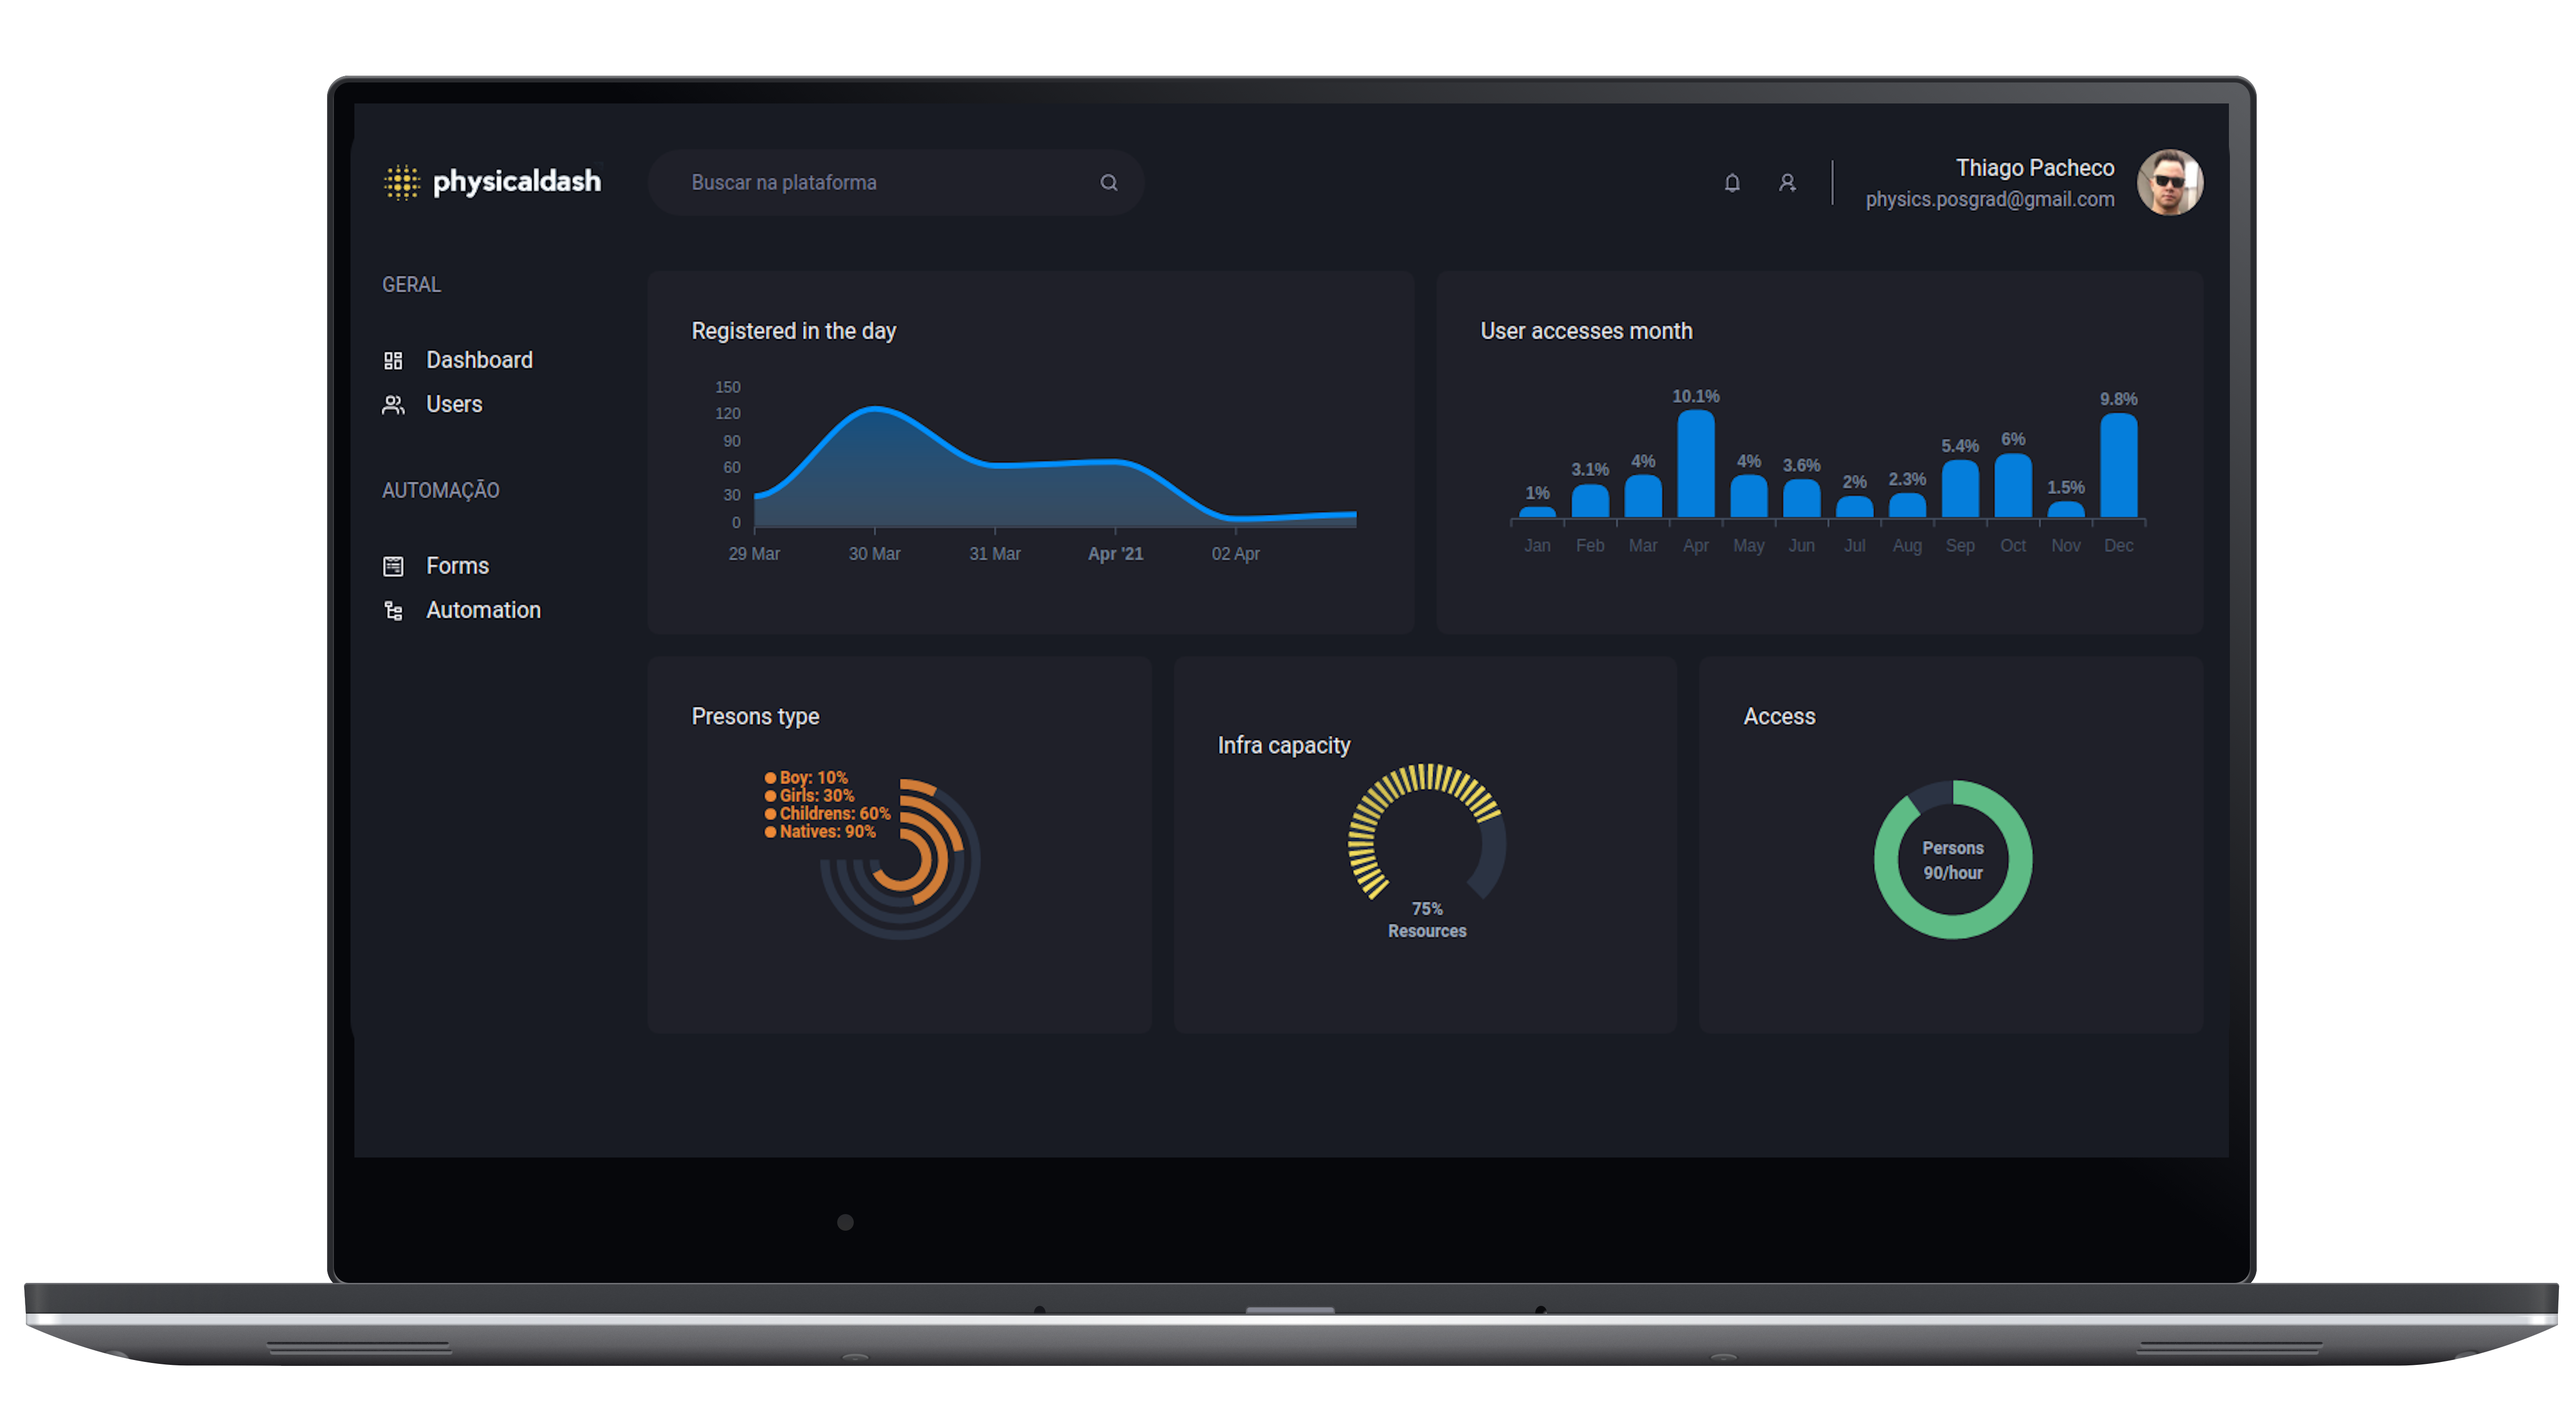
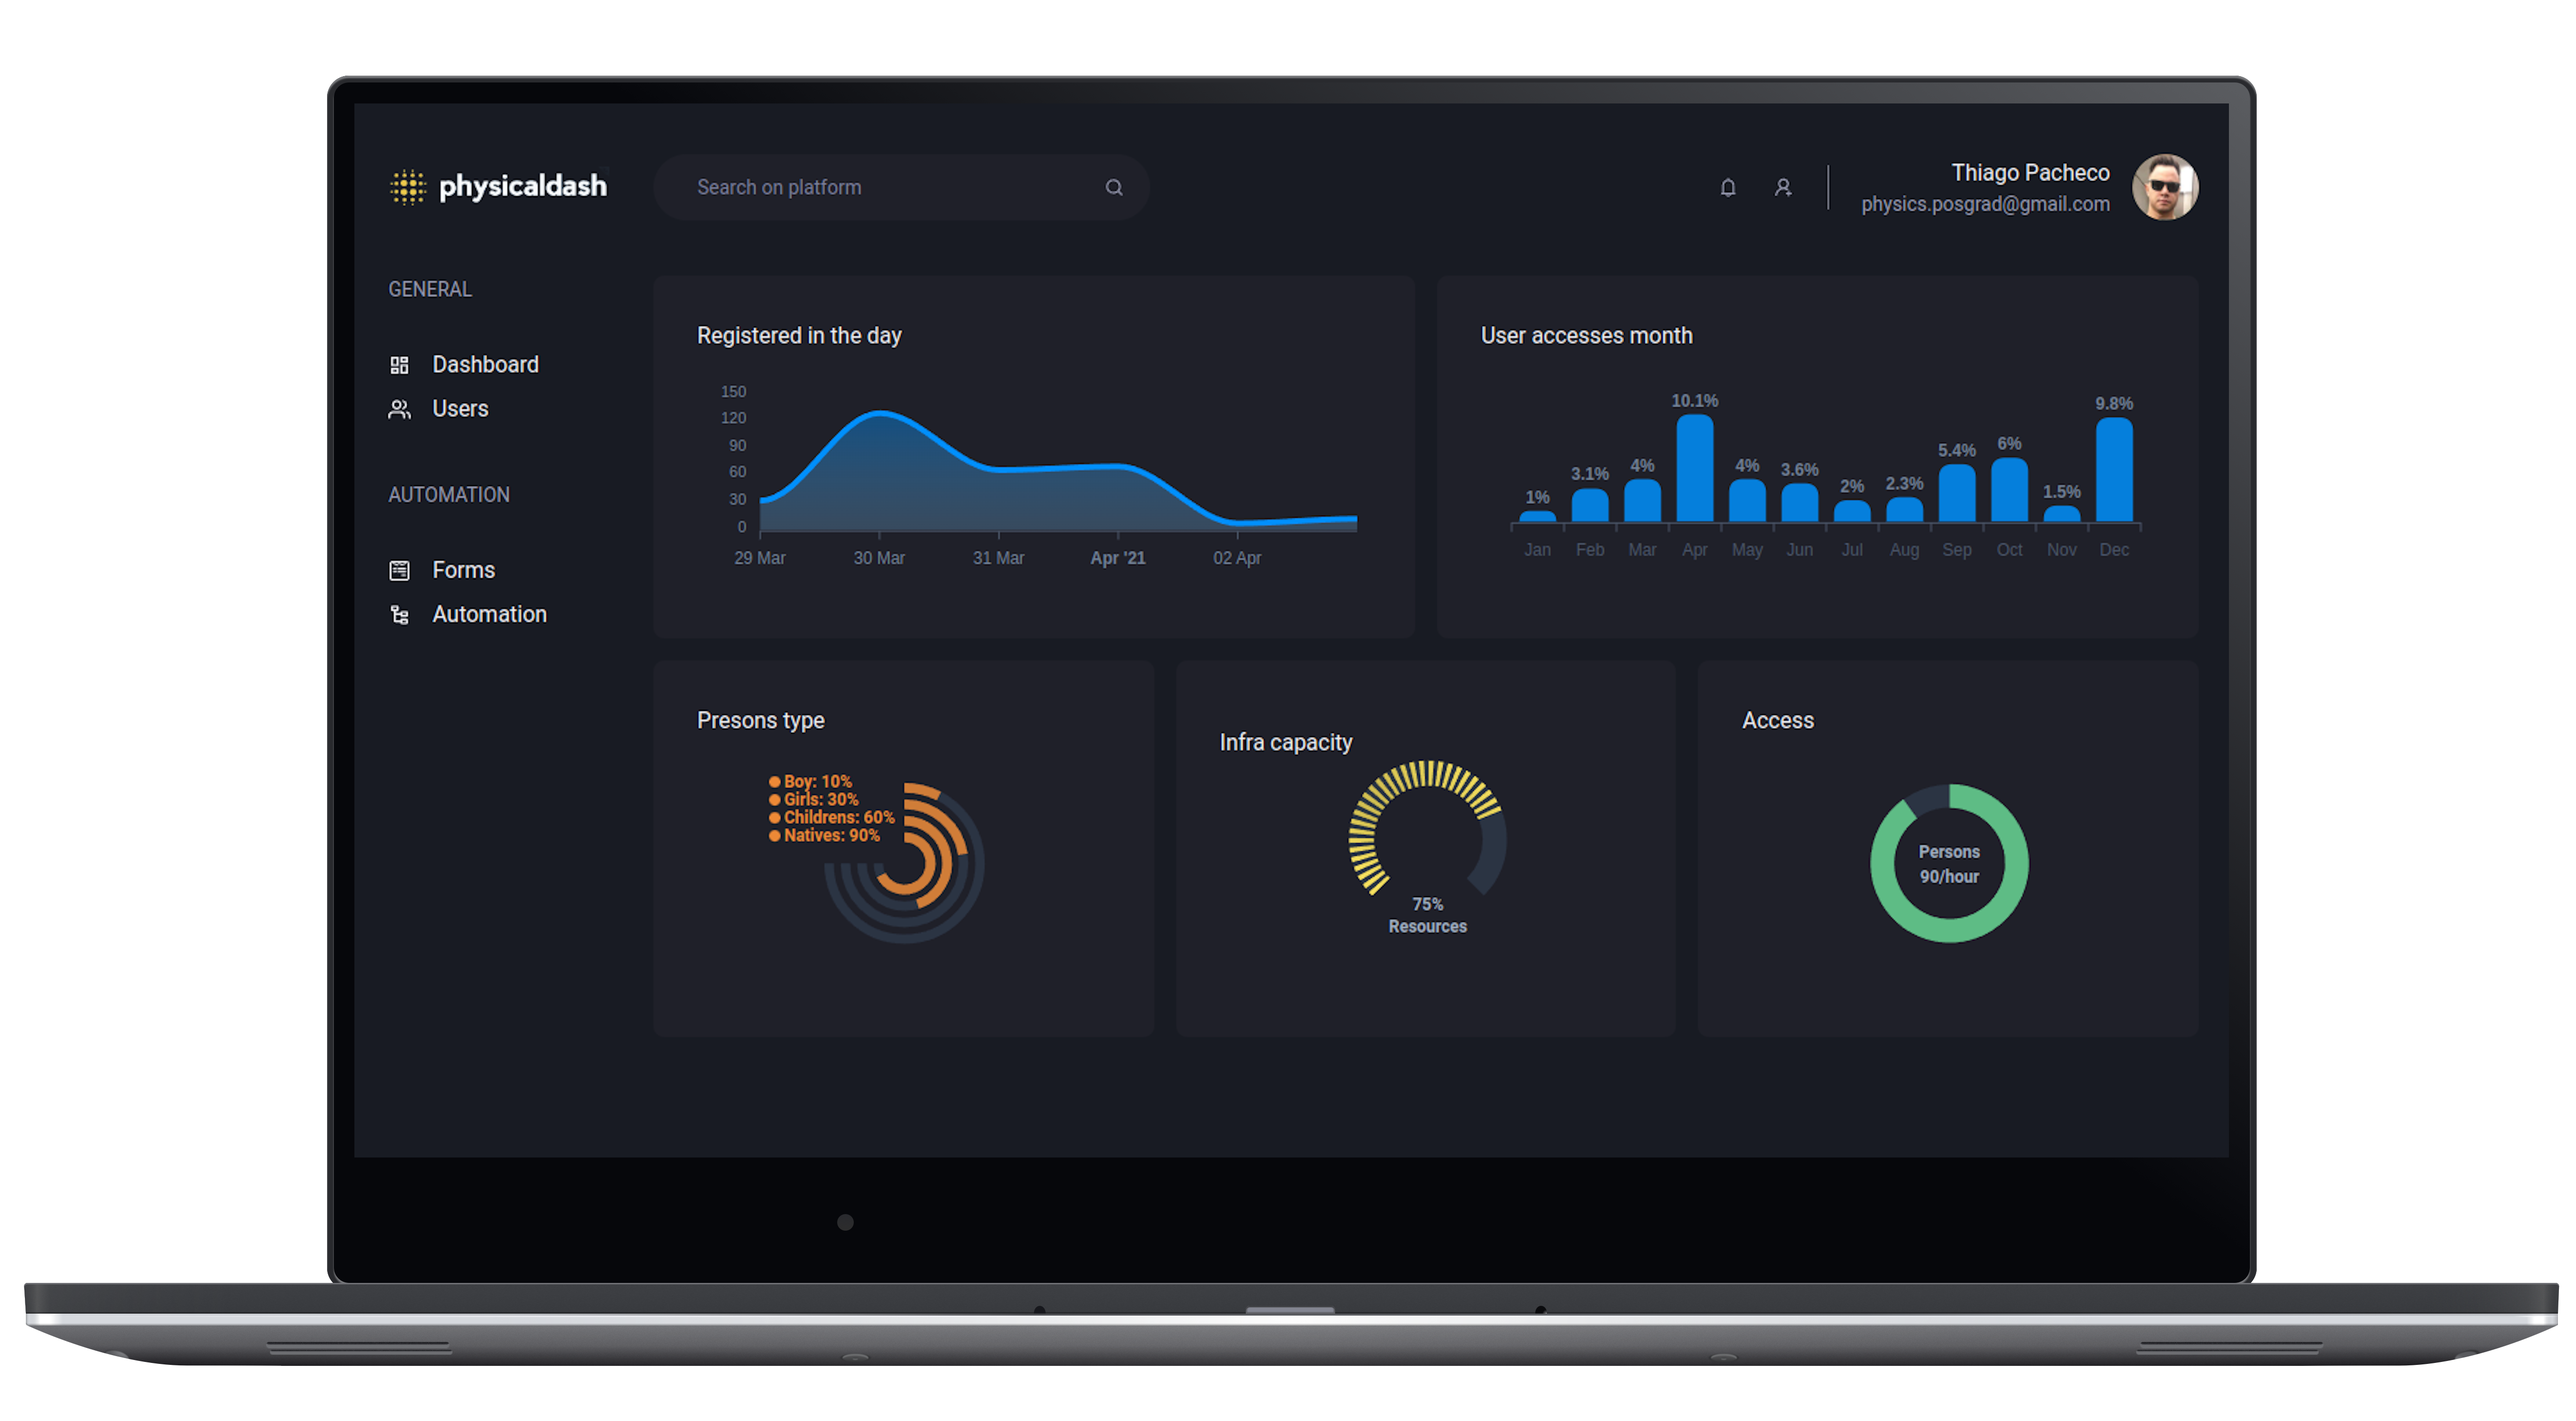
criação da página de criação de usuários, form

diff --git a/src/pages/users/index.tsx b/src/pages/users/index.tsx
@@ -10,17 +10,17 @@ const users = [
     {
         name: "Thiago Pacheco",
         email: "thiago.p@gmail.com",
-        createdAs: "22 de abril de 2022"
+        createdAs: "Apr-22, 2022"
     },
     {
         name: "Cibele Fáula",
         email: "cibele.f@gmail.com",
-        createdAs: "01 de fevereiro de 2021",
+        createdAs: "Feb-02, 2022",
     },
     {
         name: "Carlos H",
         email: "krloss.H@gmail.com",
-        createdAs: "02 de dezembro de 2021",
+        createdAs: "Dec-25, 2021",
     }
 ]
 
@@ -32,17 +32,17 @@ export default function Users() {
                 <SideBar />
                 <Box flex="1" borderRadius={8} p={8} bg="gray.800">
                     <Flex mb={8} align="center" justify="space-between">
-                        <Heading size="lg" fontWeight="normal" >Usuários</Heading>
-                        <Button as="a" size="sm" color="black" leftIcon={<Icon as={RiAddLine} fontSize={20} />}>Criar novo</Button>
+                        <Heading size="lg" fontWeight="normal" >Users</Heading>
+                        <Button as="a" size="sm" color="black" leftIcon={<Icon as={RiAddLine} fontSize={20} />}>Create new</Button>
                     </Flex>
                     <Table colorScheme="whiteAlpha">
-                        <Thead>
+                        <Thead >
                             <Tr>
                                 <Th px="6" w="8">
                                     <Checkbox colorScheme="yellow" />
                                 </Th>
-                                <Th>Usuário</Th>
-                                <Th>Data de cadastro</Th>
+                                <Th>User</Th>
+                                <Th>Registration date</Th>
                                 <Th w={8}></Th>
                             </Tr>
                         </Thead>

diff --git a/src/pages/forms.tsx b/src/pages/forms.tsx
@@ -1,0 +1,33 @@
+import { Flex, VStack, SimpleGrid, HStack, Button, Heading } from '@chakra-ui/react'
+import TpaInput from '../components/forms/TpInput'
+import Header from '../components/header/Header'
+import SideBar from '../components/sidebar/SideBar'
+
+export default function Forms() {
+    return (
+        <Flex h="100vh" direction='column'>
+            <Header />
+            <Flex w="100%" my="6" mx="auto" maxWidth="1480" px="6">
+                <SideBar />
+                <VStack p={8} align="left" w="100%" spacing={8} ml="1" bg="gray.800">
+                    <Heading size="lg" fontWeight="normal" >Create user</Heading>
+                    <SimpleGrid width="100%" gap={8} minChildWidth="240px" alignItems="flex-start">
+
+                        <TpaInput iconType='user' placeholder='Type your name' />
+                        <TpaInput iconType='email' placeholder='Type your e-mail' />
+
+                    </SimpleGrid>
+                    <SimpleGrid width="100%" gap={8} minChildWidth="240px" alignItems="flex-start">
+
+                        <TpaInput iconType='lock' placeholder='Enter your password' isPassword />
+                        <TpaInput iconType='lock' placeholder='Confirm your password' isPassword />
+                    </SimpleGrid>
+                    <HStack spacing={4} justifyContent="flex-end">
+                        <Button size="sm" w={20} colorScheme="gray" color="gray.700">Cancel</Button>
+                        <Button size="sm" w={20}>Save</Button>
+                    </HStack>
+                </VStack>
+            </Flex>
+        </Flex >
+    )
+}

diff --git a/src/pages/users/UserTableLine.tsx b/src/pages/users/UserTableLine.tsx
@@ -1,5 +1,5 @@
 import { Tbody, Tr, Td, Checkbox, Box, Text, Button, Icon } from '@chakra-ui/react'
-import { RiAddLine, RiPencilLine } from 'react-icons/ri'
+import { RiPencilLine } from 'react-icons/ri'
 
 
 interface UserTableLineBrops {
@@ -25,7 +25,7 @@ export default function UserTableLine({ name, email, createdAs }: UserTableLineB
                     <Text fontSize="sm">{createdAs}</Text>
                 </Td>
                 <Td>
-                    <Button as="a" size="sm" colorScheme="gray" color="gray.800" leftIcon={<Icon fontSize="16" as={RiPencilLine} />}>Editar</Button>
+                    <Button as="a" size="sm" colorScheme="gray" color="gray.700" leftIcon={<Icon fontSize="16" as={RiPencilLine} />}>Edit</Button>
                 </Td>
             </Tr>
         </Tbody>

diff --git a/src/components/sidebar/SideBar.tsx b/src/components/sidebar/SideBar.tsx
@@ -12,7 +12,7 @@ export default function SideBar() {
     return (
         <>
             <VStack as="aside" spacing={10} alignItems="flex-start" w="220px"  >
-                <SideBarCategoryMenu menuTitle='Geral' itens={
+                <SideBarCategoryMenu menuTitle='General' itens={
                     [
                         {
                             name: "Dashboard",
@@ -25,7 +25,7 @@ export default function SideBar() {
                         }
                     ]
                 } />
-                <SideBarCategoryMenu menuTitle='Automação' itens={
+                <SideBarCategoryMenu menuTitle='Automation' itens={
                     [
                         {
                             name: "Forms",

diff --git a/src/components/forms/RounderInput.tsx b/src/components/forms/RounderInput.tsx
@@ -3,10 +3,10 @@ import { Icon, Input, InputGroup, InputProps, InputRightElement } from '@chakra-
 import React from 'react'
 import { RiSearchLine } from 'react-icons/ri'
 
-export default function RounderInput({ ml, size, ...props }: InputProps) {
+export default function RounderInput({ ml, size, placeholder, ...props }: InputProps) {
     return (
         <InputGroup maxW={360} ml={ml} size={size}>
-            <Input {...props} size={size} variant="searchBox" placeholder='Buscar na plataforma' />
+            <Input {...props} size={size} variant="searchBox" placeholder={placeholder} />
             <InputRightElement h="100%" children={<Icon mr={5} color='gray.300' as={RiSearchLine} />} />
         </InputGroup >
     )

diff --git a/src/components/header/Header.tsx b/src/components/header/Header.tsx
@@ -18,7 +18,7 @@ export default function Header() {
             align="center"
         >
             <Image src="logoSmall.png" w="160px" />
-            <RounderInput size={"sm"} ml={8} />
+            <RounderInput size={"sm"} ml={8} placeholder="Search on platform" />
 
             <HStack ml="auto" spacing={6} >
                 <IconsBar icons={[AiOutlineBell, AiOutlineUserAdd]} />

diff --git a/src/components/users/Pagination.tsx b/src/components/users/Pagination.tsx
@@ -5,7 +5,7 @@ export default function Pagination() {
     <HStack paddingTop={8} justify="space-between">
       <Box>
         <Text fontWeight="bold" as="span">
-          0 - 5 de 100
+          0 - 5 of 100
         </Text>
       </Box>
       <HStack spacing={4}>

diff --git a/README.md b/README.md
@@ -79,10 +79,13 @@ Criamos este layout usando este outro como inspiração. Você pode visualizar a
     <img style="border-radius: 0.5rem;" alt="telasWeb" src=".github/screen01.png" width="100%">
     <br/>
     <br/>
-    <img  style="border-radius: 0.5rem;" alt="telasWeb" src=".github/screen02.png" width="100%">
+    <img  style="border-radius: 0.75rem;" alt="telasWeb" src=".github/screen02.png" width="100%">
     <br/>
     <br/>
     <img style="border-radius: 0.5rem;" alt="telasWeb" src=".github/screen03.png" width="100%">
+    <br/>
+    <br/>
+    <img style="border-radius: 0.5rem;" alt="telasWeb" src=".github/screen04.png" width="100%">
   <div>
 
 ---
